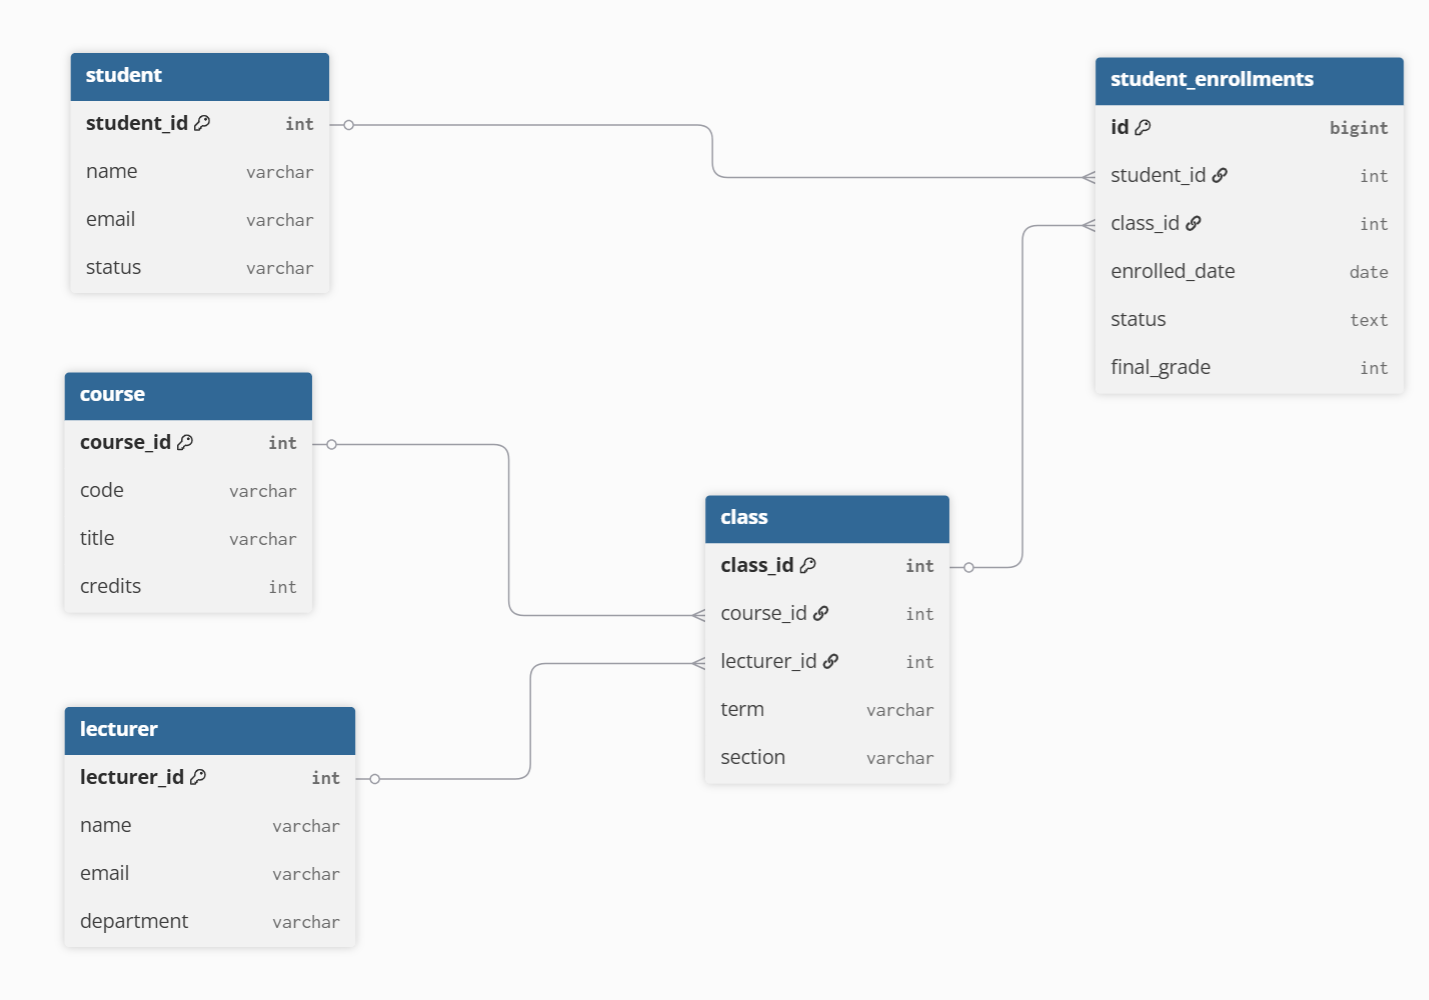
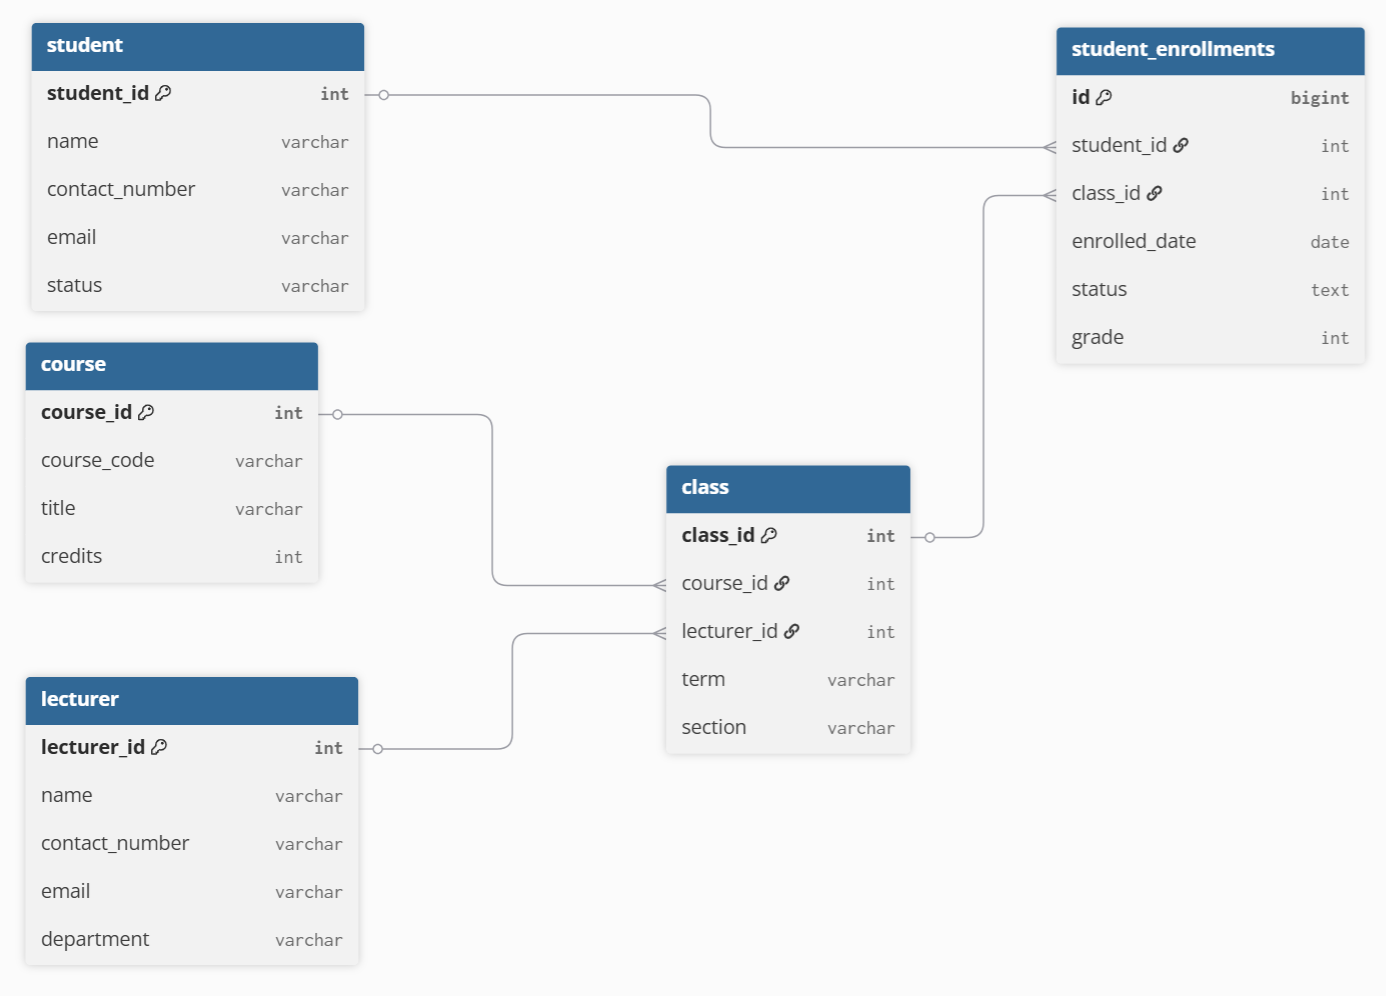
Updated fields
Updated fields

diff --git a/Week3/Activity4_Files/YB_meta.md b/Week3/Activity4_Files/YB_meta.md
@@ -6,20 +6,20 @@ The database will store students, lecturers, the courses offered, and student en
 # Main entities 
 
 1. student - studying at Yoobee College: Key attributes: student_id (PK), name (VARCHAR), email (VARCHAR), status (VARCHAR)
-- Key attributes: `student_id` (PK), `name` (VARCHAR), `email` (VARCHAR), `status` (VARCHAR)
+- Key attributes: `student_id` (PK), `name` (VARCHAR), `contact_number` (VARCHAR),`email` (VARCHAR), `status` (VARCHAR)
 
 2. lecturer -  who teaches the class 
-- Key attributes: `lecturer_id` (PK), `name` (VARCHAR), `email` (VARCHAR), `department` (VARCHAR)
+- Key attributes: `lecturer_id` (PK), `name` (VARCHAR), `contact_number` (VARCHAR), `email` (VARCHAR), `department` (VARCHAR)
 
 3. course - Catalog entry defining the curriculum and instructional scope of a subject.  
-- Key attributes: `course_id` (PK), `course_code` ("MSE800") (VARCHAR), `title` (VARCHAR), `credits` (INTEGER)
+- Key attributes: `course_id` (PK), `course_code` ("MSE800") (VARCHAR), `name` (VARCHAR), `credits` (INTEGER)
 
 4. class - Scheduled offering of a course within a specific term
-- Key attributes: `class_id` (PK), `course_id` (FK → Course), `lecturer_id` (FK → Lecturer), `term` ("2025-S2"), `stream` (A or B) TEXT
+- Key attributes: `class_id` (PK), `course_id` (FK → Course), `lecturer_id` (FK → Lecturer), `term` ("2025-S2"), `section` (A or B) TEXT
 - Business rules: (course_id, term, stream) should be UNIQUE
 
 5. student_enrollments - A record linking a student to a class offering, including participation and final outcome.
-- Key attributes: `student_enrollments_id` (PK), `student_id` (FK → Student), `class_id` (FK → class), `enrolled_date` (TEXT), `status` (TEXT), `final_grade` (INT)
+- Key attributes: `student_enrollments_id` (PK), `student_id` (FK → Student), `class_id` (FK → class), `enrolled_date` (TEXT), `status` (TEXT), `grade` (INT)
 
 #Database Schema Diagram
 
